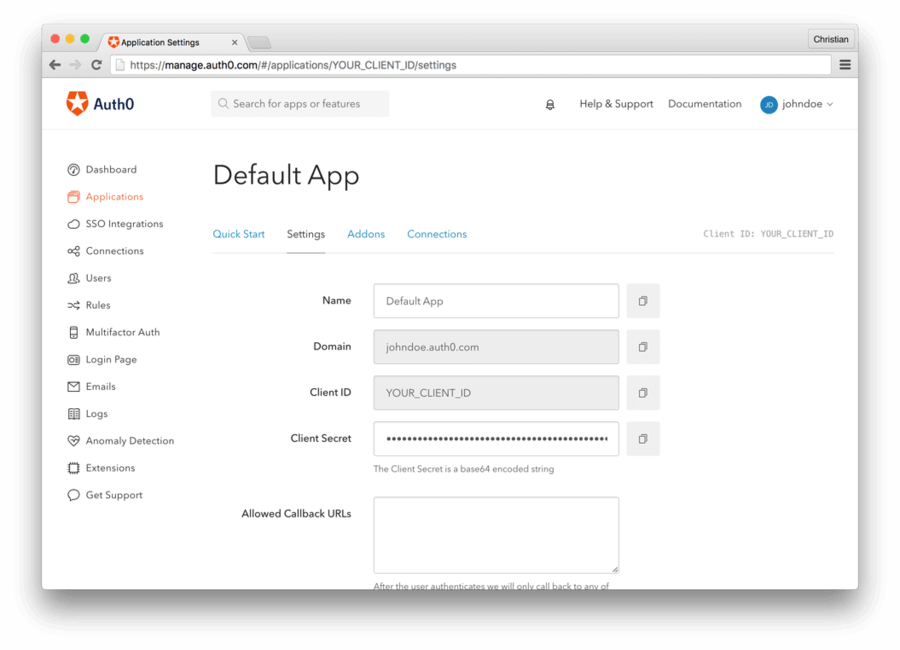
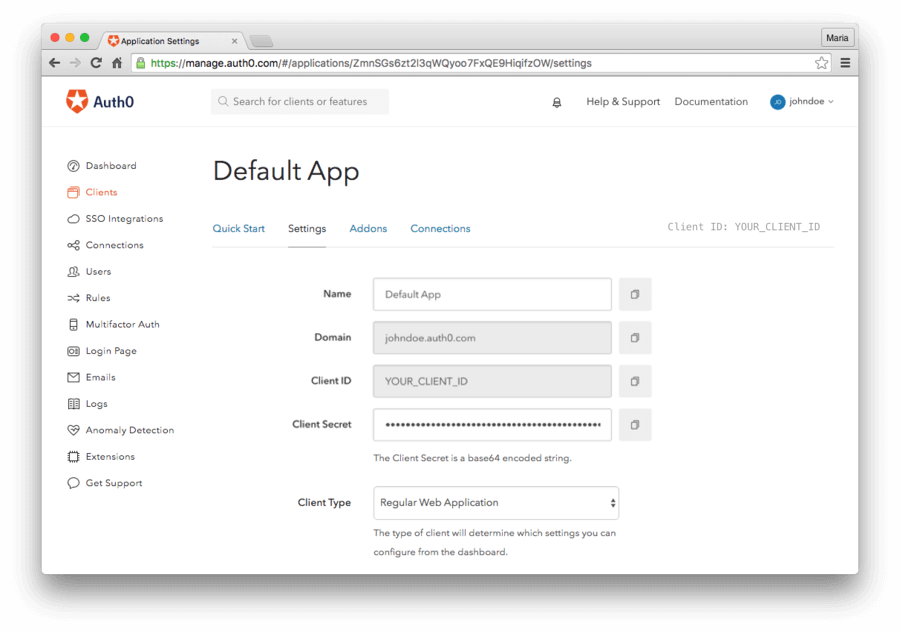
Replaced references to Applications (changed to Clients)

diff --git a/articles/server-platforms/rails/00-introduction.md b/articles/server-platforms/rails/00-introduction.md
@@ -41,7 +41,7 @@ This tutorial and seed project have been tested with the following:
   pkgType: 'server'
 }) %>
 
-### 1. Create an Application
+### 1. Create a Client
 
 Get your credentials (Domain, Client ID, and Client Secret) from the dashboard. The sample will be configured with your Default App credentials.
 
@@ -49,7 +49,7 @@ Get your credentials (Domain, Client ID, and Client Secret) from the dashboard. 
 
 ### 2. Configure Callback URLs
 
-Callback URLs are the URLs that Auth0 invokes after the authentication process is completed. Auth0 routes your application back to this URL and attaches some details to the user's session including a token. Since callback URLs can be manipulated, you will need to add your application's URL in the app's Allowed Callback URLs for security. This will enable Auth0 to recognize these URLs as valid. If omitted, the authentication will not be successful for the app instance.
+Callback URLs are the URLs that Auth0 invokes after the authentication process is completed. Auth0 routes your application back to this URL and attaches some details to the user's session including a token. Since callback URLs can be manipulated, you will need to add your application's URL in the client's Allowed Callback URLs for security. This will enable Auth0 to recognize these URLs as valid. If omitted, the authentication will not be successful for the application's instance.
 
 ${include('../_callbackRegularWebApp')}
 
